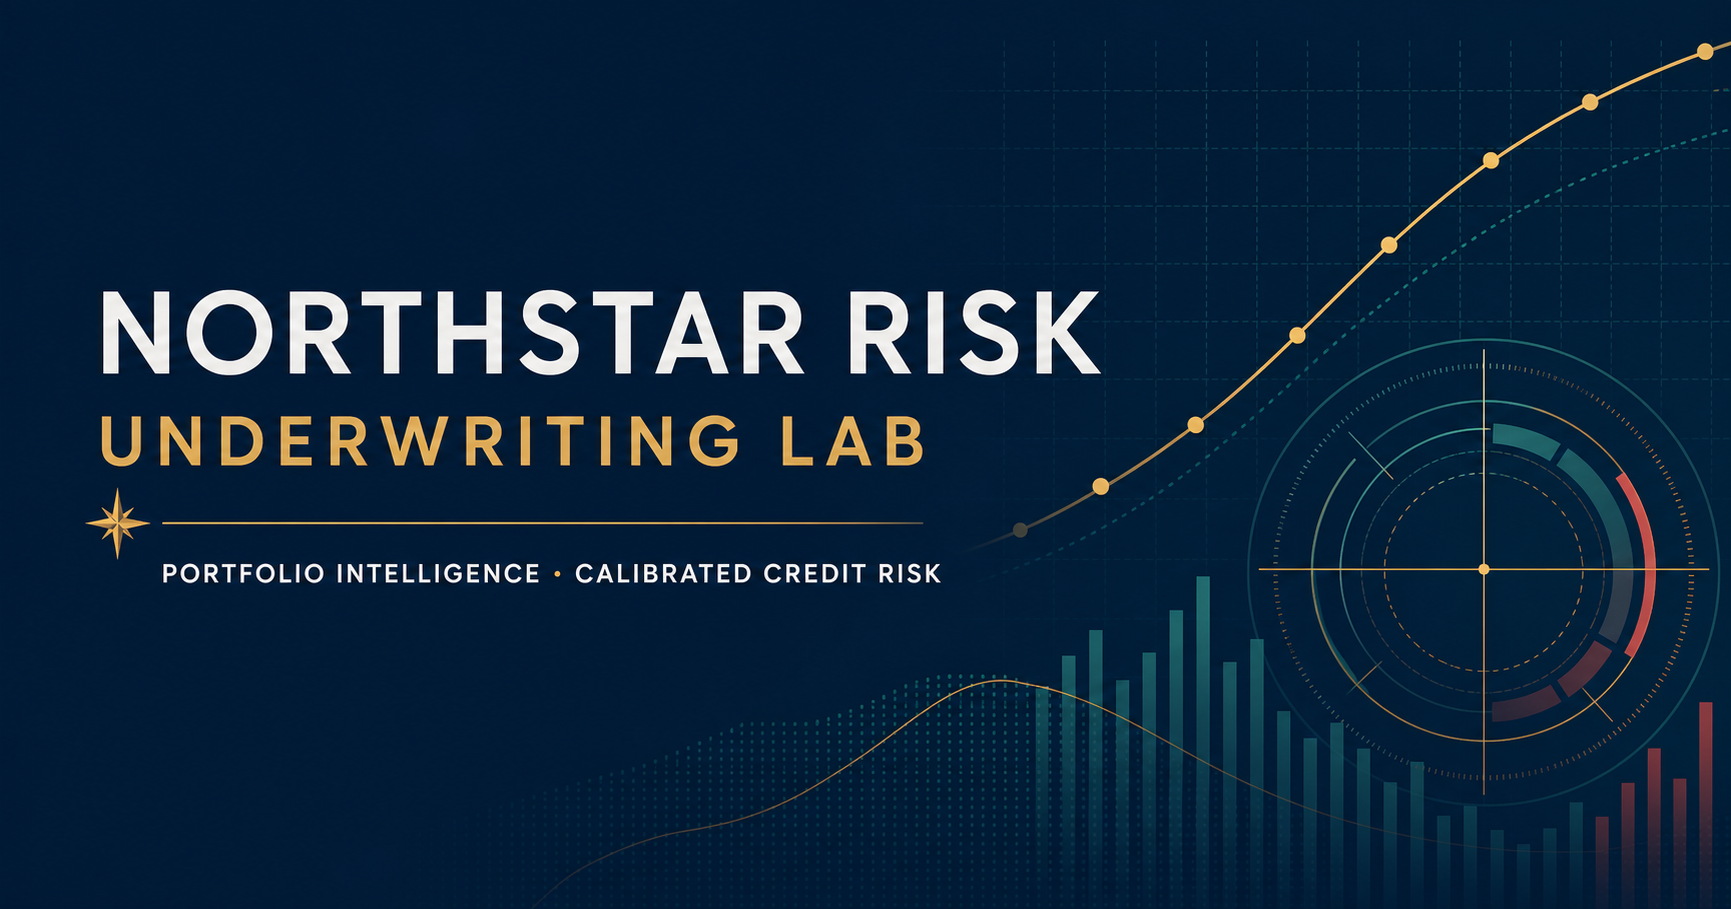
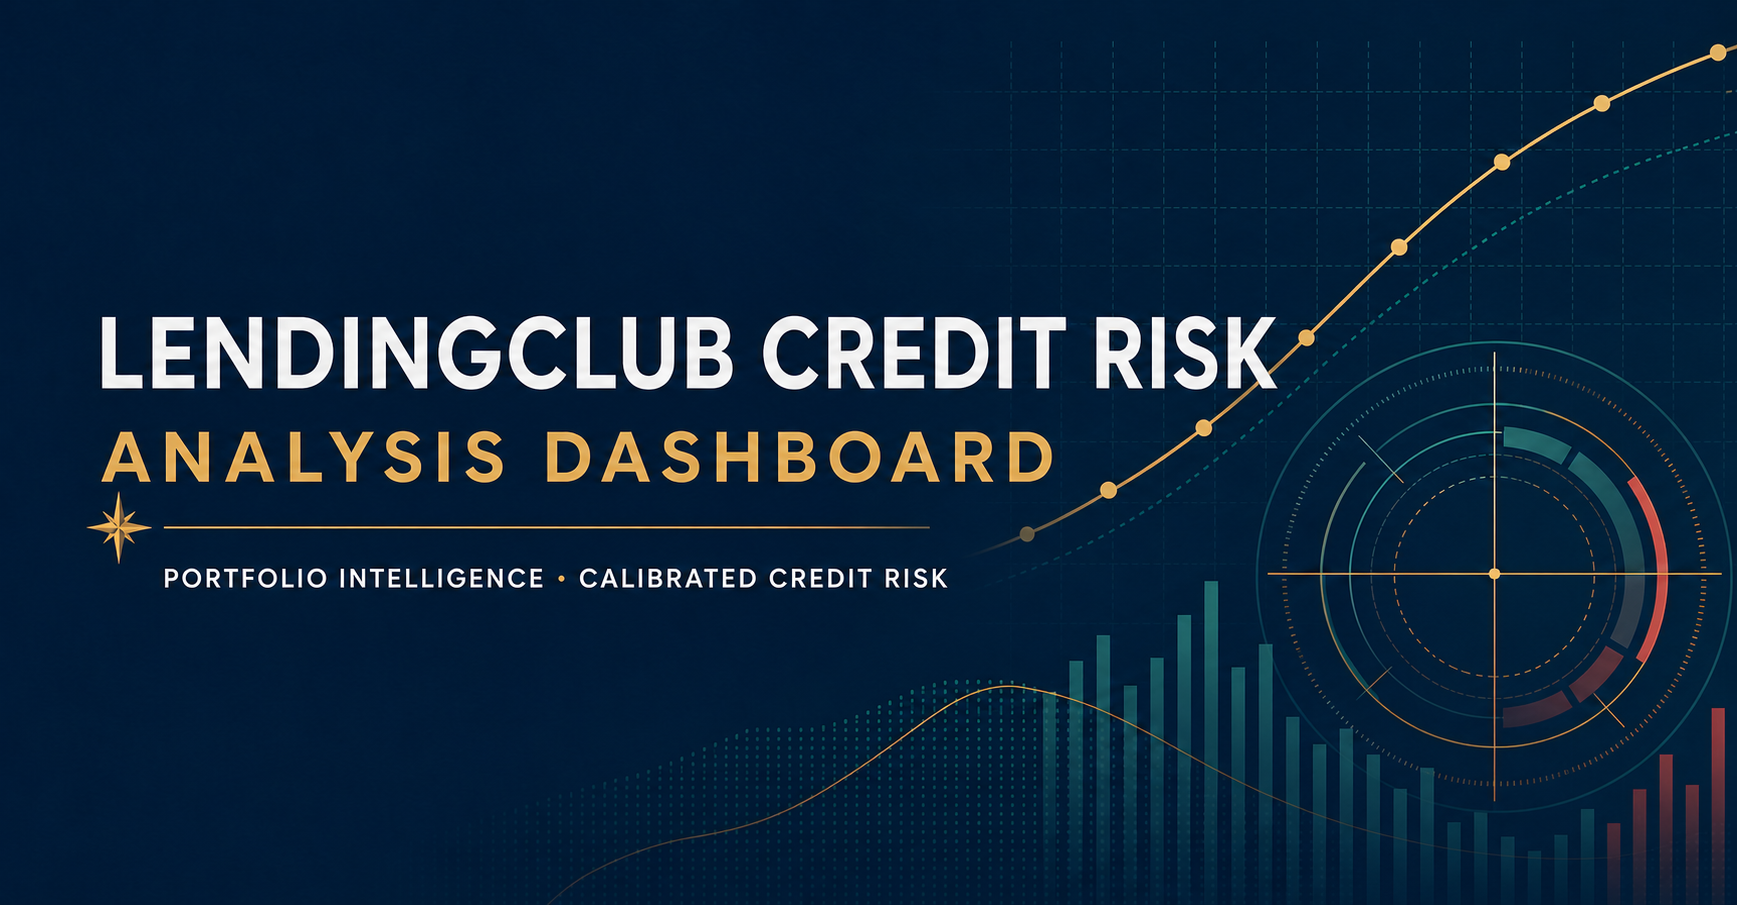
Rename dashboard to LendingClub Credit Risk Analysis

diff --git a/app/layout.tsx b/app/layout.tsx
@@ -5,14 +5,14 @@ import "./globals.css";
 const geistSans = Geist({ variable: "--font-geist-sans", subsets: ["latin"] });
 const geistMono = Geist_Mono({ variable: "--font-geist-mono", subsets: ["latin"] });
 
-const title = "Northstar Risk | Lending Club Underwriting Lab";
-const description = "A private research dashboard for Lending Club portfolio analytics and calibrated underwriting simulation.";
+const title = "LendingClub Credit Risk Analysis";
+const description = "A public research dashboard for Lending Club portfolio analytics, credit-risk modeling, and calibrated underwriting simulation.";
 
 export const metadata: Metadata = {
   title,
   description,
   icons: { icon: "/favicon.svg", shortcut: "/favicon.svg" },
-  openGraph: { title, description, type: "website", images: [{ url: "/og.png", width: 1742, height: 909, alt: "Northstar Risk Underwriting Lab" }] },
+  openGraph: { title, description, type: "website", images: [{ url: "/og.png", width: 1737, height: 905, alt: "LendingClub Credit Risk Analysis dashboard" }] },
   twitter: { card: "summary_large_image", title, description, images: ["/og.png"] },
 };
 

diff --git a/app/page.tsx b/app/page.tsx
@@ -394,7 +394,7 @@ export default function Home() {
       <aside className="sidebar">
         <div className="brand-lockup">
           <div className="brand-mark"><Landmark size={22} /></div>
-          <div><strong>Northstar Risk</strong><span>Underwriting Lab</span></div>
+          <div><strong>LendingClub</strong><span>Credit Risk Analysis</span></div>
         </div>
         <nav aria-label="Dashboard sections">
           {NAV_ITEMS.map((item) => {

diff --git a/README.md b/README.md
@@ -1,12 +1,12 @@
-# Northstar Risk — Lending Club Underwriting Lab
+# LendingClub Credit Risk Analysis
 
-Northstar Risk is an end-to-end credit-risk research project built on the
+LendingClub Credit Risk Analysis is an end-to-end credit-risk research project built on the
 [Lending Club loan dataset](https://www.kaggle.com/datasets/wordsforthewise/lending-club).
 It combines portfolio analytics, probability-of-default (PD) modeling,
 out-of-time validation, policy simulation, and browser-based applicant scoring
 in one public dashboard.
 
-**Live dashboard:** [northstar-risk-underwriting.azure10h.chatgpt.site](https://northstar-risk-underwriting.azure10h.chatgpt.site)
+**Live dashboard:** [LendingClub Credit Risk Analysis](https://northstar-risk-underwriting.azure10h.chatgpt.site)
 
 > [!WARNING]
 > This project is for research and demonstration only. The model did not pass